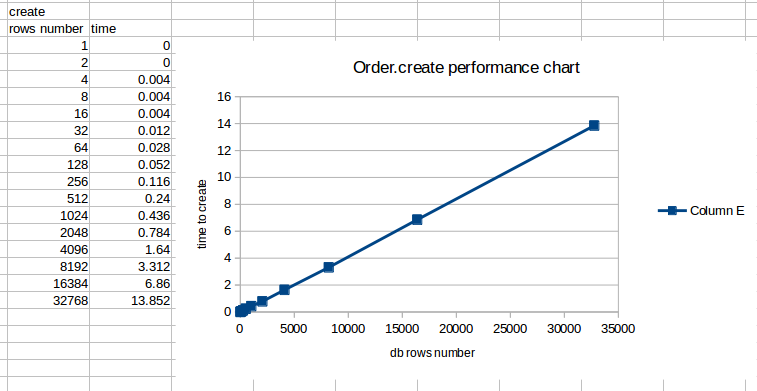
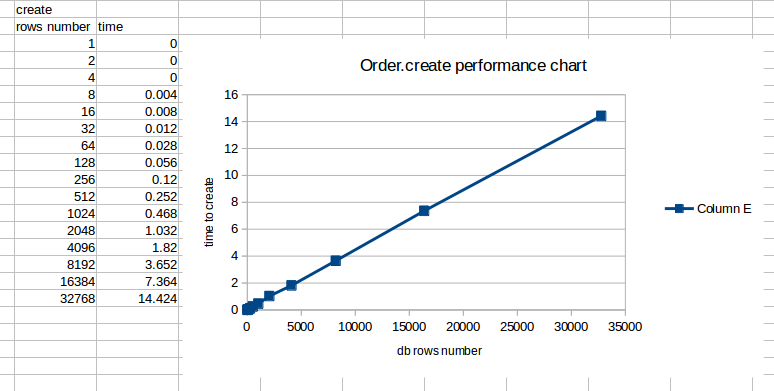
keep indices actual in runtime

diff --git a/ruby_db.rb b/ruby_db.rb
@@ -111,11 +111,11 @@ module RubyDB
 
     def create(attributes)
       @storage.append_row @table.fields_names, attributes
-      #@storage.add_indices indices_data(attributes), attributes[id_name]
+      @storage.add_indices indices_data(attributes), attributes[id_name]
     end
 
-    def update_indices
-      @storage.update_indices
+    def flush_indices
+      @storage.flush_indices
     end
 
     def id_name
@@ -225,7 +225,7 @@ module RubyDB
       end
     end
 
-    def update_indices
+    def flush_indices
       indices.values.each(&:flush_to_file)
     end
 
@@ -238,7 +238,6 @@ module RubyDB
 
       def add(value, id)
         tree[value] = id
-        flush_to_file
       end
 
       # returns id
@@ -289,7 +288,7 @@ module RubyDB
 
       def add(value, id)
         tree.add(value, id)
-        flush_to_file
+        #flush_to_file
       end
 
       # returns id
@@ -407,8 +406,8 @@ module RubyDB
       @operations ||= PersistentOperations.new(@schema, table_schema)
     end
 
-    def update_indices
-      @operations.update_indices
+    def flush_indices
+      @operations.flush_indices
     end
   end
 
@@ -464,6 +463,7 @@ def create_orders(amount)
     index = i + 1 # the same as id
     Order.create(description: "order ##{index}", department_id: 1000 + index)
   end
+  Order.flush_indices
 end
 
 def find_orders
@@ -492,7 +492,7 @@ if true
   end
 end
 
-Order.update_indices
+puts
 
 if true
   puts "find testing ------------------"
@@ -500,6 +500,7 @@ if true
   amounts.each do |amount|
     recreate_db
     create_orders(amount)
+    Order.flush_indices
 
     total = Benchmark.measure { 100000.times.each { find_orders } }.total
     print amount.to_s.ljust(10)
